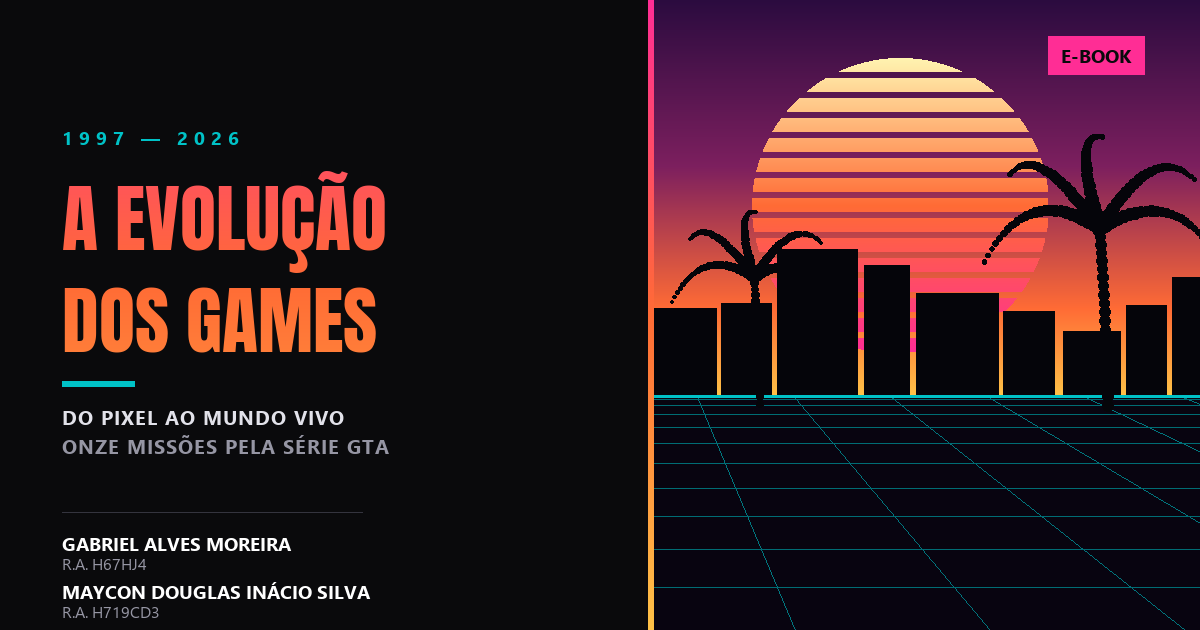
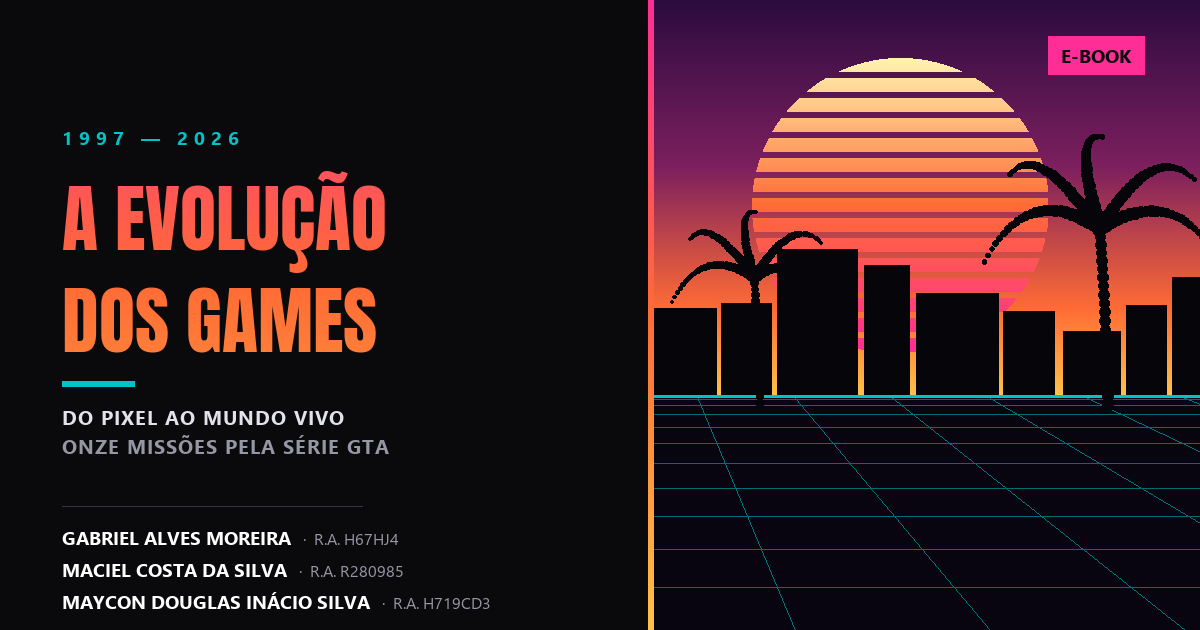
feat: adiciona Maciel Costa da Silva à autoria e move o e-book para ebook.html
- Maciel Costa da Silva (R.A. R280985) entra na capa, nas meta tags,
  no rodapé da folha final, no README e na imagem de compartilhamento
- A capa comporta os três autores com folga; nenhuma das 14 folhas
  estoura a A4
- index.html renomeado para ebook.html, com og:url e twitter:url
  apontando para o novo endereço. Por decisão dos autores não há
  index.html: a raiz do site deixa de ter página
- capa.png refeita com os três autores, um por linha

Changed region(s): [[0.0308, 0.8444, 0.3392, 0.9952], [0.0617, 0.7841, 0.2775, 0.8143], [0.3392, 0.9349, 0.4008, 0.9651]]

diff --git a/ebook.html b/ebook.html
@@ -3,19 +3,19 @@
 <head>
     <meta charset="UTF-8">
     <meta name="viewport" content="width=device-width, initial-scale=1.0">
-    <meta name="description" content="E-book sobre a evolução dos games contada pela série Grand Theft Auto: de GTA 1 em 1997 a GTA VI em 2026. Direção de arte inspirada em GTA V e GTA VI. Por Gabriel Alves Moreira e Maycon Douglas Inácio Silva.">
-    <meta name="author" content="Gabriel Alves Moreira, Maycon Douglas Inácio Silva">
+    <meta name="description" content="E-book sobre a evolução dos games contada pela série Grand Theft Auto: de GTA 1 em 1997 a GTA VI em 2026. Direção de arte inspirada em GTA V e GTA VI. Por Gabriel Alves Moreira, Maciel Costa da Silva e Maycon Douglas Inácio Silva.">
+    <meta name="author" content="Gabriel Alves Moreira, Maciel Costa da Silva, Maycon Douglas Inácio Silva">
 
     <!-- Open Graph / Facebook -->
     <meta property="og:type" content="website">
-    <meta property="og:url" content="https://maycondis.github.io/E-book-A_Evolucao_dos_Games/">
+    <meta property="og:url" content="https://maycondis.github.io/E-book-A_Evolucao_dos_Games/ebook.html">
     <meta property="og:title" content="A Evolução dos Games | E-book">
     <meta property="og:description" content="A história dos videogames contada pela série GTA — de 1997 a 2026.">
     <meta property="og:image" content="https://maycondis.github.io/E-book-A_Evolucao_dos_Games/assets/img/capa.png">
 
     <!-- Twitter -->
     <meta property="twitter:card" content="summary_large_image">
-    <meta property="twitter:url" content="https://maycondis.github.io/E-book-A_Evolucao_dos_Games/">
+    <meta property="twitter:url" content="https://maycondis.github.io/E-book-A_Evolucao_dos_Games/ebook.html">
     <meta property="twitter:title" content="A Evolução dos Games | E-book">
     <meta property="twitter:description" content="A história dos videogames contada pela série GTA — de 1997 a 2026.">
     <meta property="twitter:image" content="https://maycondis.github.io/E-book-A_Evolucao_dos_Games/assets/img/capa.png">
@@ -103,6 +103,8 @@
                     <span class="label">Escrito por</span>
                     <span class="name">Gabriel Alves Moreira</span>
                     <span class="ra">R.A. H67HJ4</span>
+                    <span class="name">Maciel Costa da Silva</span>
+                    <span class="ra">R.A. R280985</span>
                     <span class="name">Maycon Douglas Inácio Silva</span>
                     <span class="ra">R.A. H719CD3</span>
                 </div>
@@ -660,7 +662,7 @@
                 </div>
 
                 <footer class="hud-footer">
-                    <p class="hud-source">A Evolução dos Games &middot; Gabriel Alves Moreira (R.A. H67HJ4) e Maycon Douglas Inácio Silva (R.A. H719CD3) &middot; 2026</p>
+                    <p class="hud-source">A Evolução dos Games &middot; Gabriel Alves Moreira (R.A. H67HJ4), Maciel Costa da Silva (R.A. R280985) e Maycon Douglas Inácio Silva (R.A. H719CD3) &middot; 2026</p>
                     <span class="hud-page">Fim</span>
                 </footer>
             </div>

diff --git a/README.md b/README.md
@@ -7,7 +7,7 @@
 ![Arquitetura](https://img.shields.io/badge/arquitetura-SMACSS%20%7C%20Clean%20Code-orange)
 ![Licença](https://img.shields.io/badge/licença-educacional-yellow)
 
-🔗 **[Ler o e-book online](https://maycondis.github.io/E-book-A_Evolucao_dos_Games/)**
+🔗 **[Ler o e-book online](https://maycondis.github.io/E-book-A_Evolucao_dos_Games/ebook.html)**
 
 ## 📖 Sobre
 
@@ -47,17 +47,17 @@ Todo o cenário é desenhado em **CSS e SVG inline**: nenhuma imagem externa, ne
 
 ### Ler no navegador
 
-Acesse o [link do GitHub Pages](https://maycondis.github.io/E-book-A_Evolucao_dos_Games/) ou abra localmente:
+Acesse o [link do GitHub Pages](https://maycondis.github.io/E-book-A_Evolucao_dos_Games/ebook.html) ou abra localmente:
 
 ```bash
-start index.html
+start ebook.html
 ```
 
 ### Exportar como PDF
 
 O e-book foi projetado com regras de `@media print` para sair fiel no papel:
 
-1. Abra `index.html` no Chrome ou Edge.
+1. Abra `ebook.html` no Chrome ou Edge.
 2. Pressione `Ctrl + P` ou clique no botão flutuante **"BAIXAR PDF"**.
 3. Selecione **"Salvar como PDF"**.
 4. ✅ Ative **"Gráficos de fundo"** (Background graphics).
@@ -69,7 +69,7 @@ O e-book foi projetado com regras de `@media print` para sair fiel no papel:
 O projeto tem um auditor embutido. Abra a página com `?debug` na URL:
 
 ```
-index.html?debug
+ebook.html?debug
 ```
 
 Qualquer folha cujo conteúdo ultrapasse o limite da A4 — e que seria cortada silenciosamente no PDF — aparece marcada em vermelho. O aviso também sai no console do navegador, sempre.
@@ -88,7 +88,7 @@ Qualquer folha cujo conteúdo ultrapasse o limite da A4 — e que seria cortada 
 
 ```
 📦 E-book-A_Evolucao_dos_Games
-├── 📄 index.html              # Conteúdo semântico do e-book (HTML5)
+├── 📄 ebook.html              # Conteúdo semântico do e-book (HTML5)
 ├── 📂 assets/
 │   ├── 📂 css/
 │   │   ├── 🎨 style.css       # Hub central de importação
@@ -124,6 +124,7 @@ Qualquer folha cujo conteúdo ultrapasse o limite da A4 — e que seria cortada 
 | Nome | R.A. |
 |------|------|
 | Gabriel Alves Moreira | H67HJ4 |
+| Maciel Costa da Silva | R280985 |
 | Maycon Douglas Inácio Silva | H719CD3 |
 
 ## ⚠ Nota sobre GTA VI
